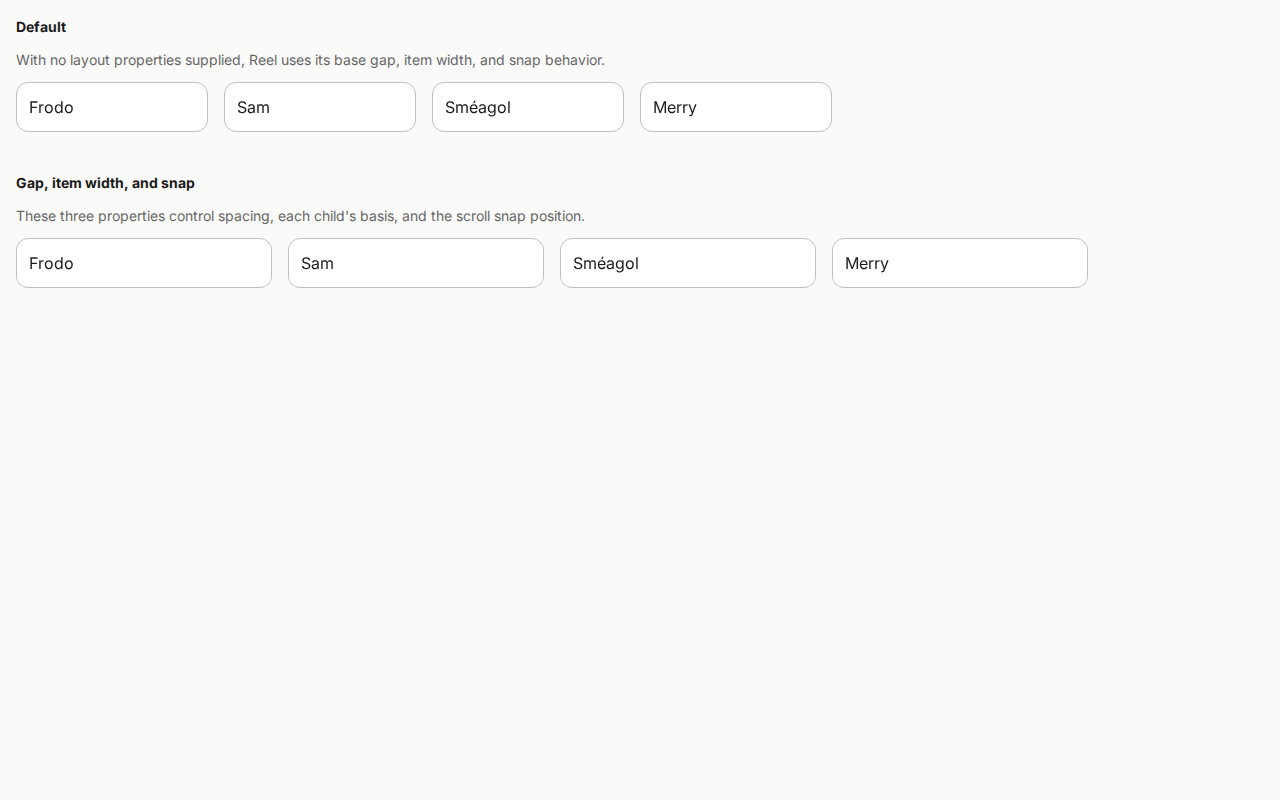
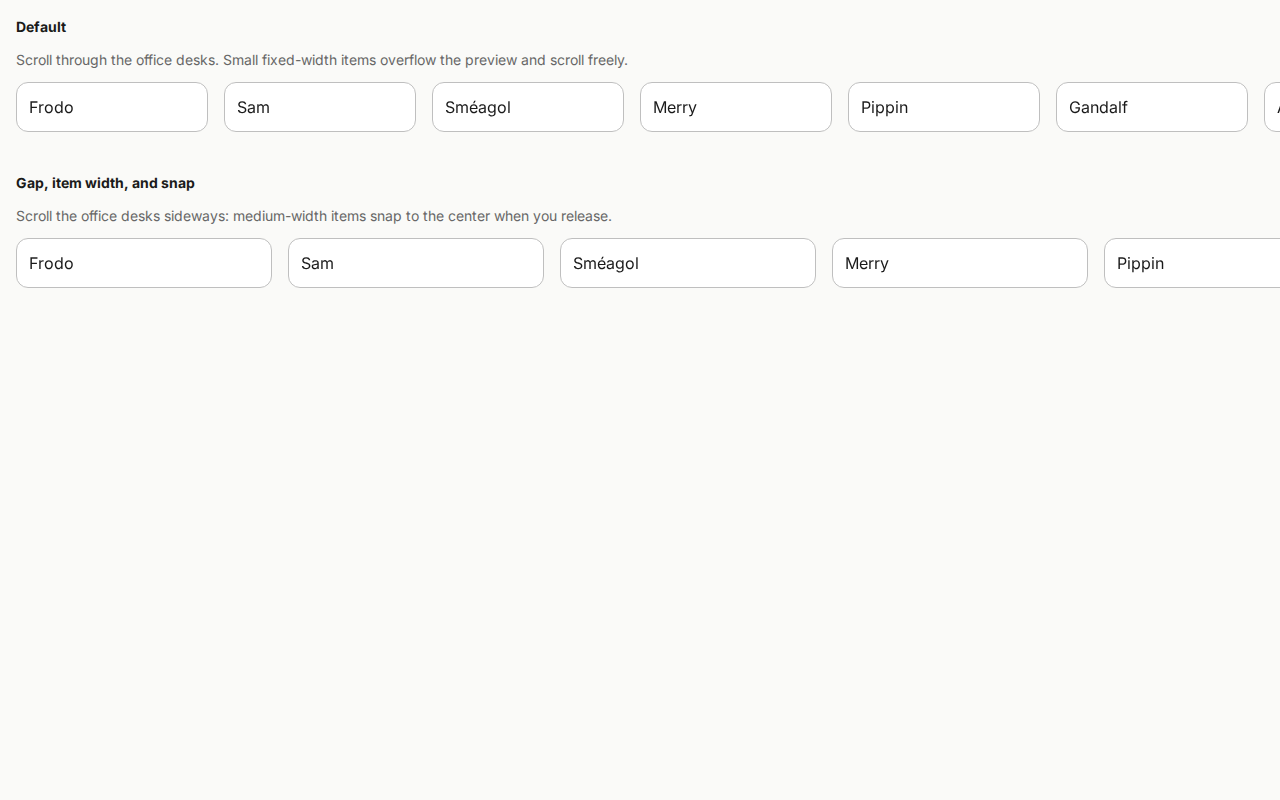
fix(docs): simplify workspaces and polish shared controls (#442)
* fix(docs): simplify workspaces and polish shared controls

* test(docs): accept intended spacing and hint visuals

* fix(docs): preserve catalog grid containment through markdown

diff --git a/apps/docs-next/tests/design-system.spec.js b/apps/docs-next/tests/design-system.spec.js
@@ -8,6 +8,8 @@ const catalog = await readCatalog();
 test('directory cards and full reference come from the published component catalog', async ({ page }, info) => {
   await page.goto(info.config.metadata.markupress + 'components/');
   await expect(page.locator('[data-component-card]')).toHaveCount(catalog.components.filter(component => !component.navigationParent).length);
+  const layoutGrid = page.locator('[data-catalog-group="layout"] [data-component~="ui-grid"]');
+  await expect(layoutGrid.locator('[data-component-card]')).toHaveCount(catalog.components.filter(component => component.group === 'layout' && !component.navigationParent).length);
   for (const tag of ['ui-button', 'ui-stack', 'ui-color-picker']) {
     const card = page.locator(`[data-component-card="${tag}"]`);
     await expect(card.locator('h3')).toHaveText(catalog.components.find(component => component.tag === tag).title);
@@ -59,7 +61,8 @@ test('documentation navigation uses Looma disclosures and keeps editor reference
   }
   await page.locator('[data-component~="markupress-header"]').getByRole('link', { name: 'Editor', exact: true }).click();
   await expect(page).toHaveURL(/\/editor\/$/);
-  const toolbar = page.getByRole('navigation', { name: 'Documentation', exact: true }).getByRole('link', { name: 'Editor Toolbar', exact: true });
+  await expect(page.getByRole('navigation', { name: 'Documentation', exact: true })).toHaveCount(0);
+  const toolbar = page.getByRole('link', { name: 'Editor Toolbar', exact: true });
   await expect(toolbar).toHaveAttribute('href', /\/editor\/ui-editor-toolbar\/$/);
   await toolbar.click(); await expect(page.getByRole('heading', { level: 1, name: 'Editor Toolbar', exact: true })).toBeVisible();
   await page.setViewportSize({ width: 375, height: 900 });
@@ -75,6 +78,57 @@ test('documentation navigation uses Looma disclosures and keeps editor reference
   if (process.env.LOOMA_MATERIAL_SCREENSHOTS) await page.screenshot({ path: join(process.env.LOOMA_MATERIAL_SCREENSHOTS, 'navigation-editor-mobile.png') });
 });
 
+test('customizer gives its controls the sidebar and keeps previews visible without a second navigation tree', async ({ page }, info) => {
+  await page.goto(info.config.metadata.markupress + 'customize/');
+  await expect(page.getByRole('navigation', { name: 'Documentation', exact: true })).toHaveCount(0);
+  const controls = page.getByRole('complementary', { name: 'Theme controls', exact: true });
+  await expect(controls.getByRole('combobox', { name: 'Starting point', exact: true })).toBeVisible();
+  await expect(controls.getByRole('combobox', { name: 'Palette preset', exact: true })).toBeVisible();
+  await expect(controls.getByRole('combobox', { name: 'Material preset', exact: true })).toBeVisible();
+  await expect(page.getByRole('button', { name: 'Type, size & motion', exact: true })).toHaveAttribute('aria-expanded', 'false');
+  await expect(page.getByRole('button', { name: 'Add an example', exact: true })).toHaveAttribute('aria-expanded', 'false');
+  await expect(page.locator('[data-example-count]')).toHaveText('9 examples in preview');
+  await page.getByRole('searchbox', { name: 'Filter previews', exact: true }).fill('checkbox');
+  await expect(page.locator('[data-example-count]')).toHaveText('1 example in preview');
+  await page.getByRole('searchbox', { name: 'Filter previews', exact: true }).clear();
+  const first = page.locator('[data-example-card]').first();
+  expect((await first.boundingBox()).y).toBeLessThan(650);
+  const stack = first.locator('.body [data-component="ui-stack"]');
+  expect(await stack.evaluate(element => getComputedStyle(element).display)).toBe('flex');
+  expect(await stack.evaluate(element => parseFloat(getComputedStyle(element).rowGap))).toBeGreaterThan(0);
+  await expect(page.getByRole('button', { name: 'Automatic appearance', exact: true })).toHaveAttribute('aria-pressed', 'true');
+  await controls.getByRole('combobox', { name: 'Starting point', exact: true }).selectOption('bookish');
+  if (process.env.LOOMA_MATERIAL_SCREENSHOTS) await page.screenshot({ path: join(process.env.LOOMA_MATERIAL_SCREENSHOTS, 'customizer-light.png') });
+  await page.getByRole('button', { name: 'Dark appearance', exact: true }).click();
+  await expect(page.locator('html')).toHaveAttribute('data-theme', 'dark');
+  if (process.env.LOOMA_MATERIAL_SCREENSHOTS) await page.screenshot({ path: join(process.env.LOOMA_MATERIAL_SCREENSHOTS, 'customizer-dark.png') });
+  await page.getByRole('button', { name: 'Automatic appearance', exact: true }).click();
+  await expect(page.locator('html')).toHaveAttribute('data-theme', 'light');
+  await page.setViewportSize({ width: 375, height: 900 });
+  expect(await page.evaluate(() => document.documentElement.scrollWidth <= innerWidth)).toBe(true);
+  if (process.env.LOOMA_MATERIAL_SCREENSHOTS) await page.screenshot({ path: join(process.env.LOOMA_MATERIAL_SCREENSHOTS, 'customizer-mobile.png') });
+  await page.getByRole('button', { name: 'Navigation', exact: true }).click();
+  await expect(page.getByRole('navigation', { name: 'Sections', exact: true })).toBeVisible();
+});
+
+test('reel examples have meaningful overflow and snap at item centers', async ({ page }, info) => {
+  await page.goto(info.config.metadata.markupress + 'components/ui-reel/');
+  const examples = page.locator('[data-example-card]');
+  const free = examples.nth(0).locator('iframe').contentFrame().locator('[data-component="ui-reel"]');
+  const snap = examples.nth(1).locator('iframe').contentFrame().locator('[data-component="ui-reel"]');
+  await free.waitFor(); await snap.waitFor();
+  for (const reel of [free, snap]) {
+    expect(await reel.evaluate(element => element.scrollWidth - element.clientWidth)).toBeGreaterThan(350);
+  }
+  expect(await free.evaluate(element => getComputedStyle(element).scrollSnapType)).toBe('none');
+  expect(await snap.evaluate(element => getComputedStyle(element).scrollSnapType)).toContain('mandatory');
+  await snap.evaluate(element => { element.scrollLeft = element.clientWidth / 2; });
+  await expect.poll(() => snap.evaluate(element => {
+    const box = element.getBoundingClientRect();
+    return Math.min(...[...element.children].map(child => { const item = child.getBoundingClientRect(); return Math.abs(item.left + item.width / 2 - box.left - box.width / 2); }));
+  })).toBeLessThan(2);
+});
+
 test('customizer reuses real cards, updates every isolated preview and exports the formula-based theme', async ({ page }, info) => {
   const errors = [];
   page.on('pageerror', error => errors.push(error.message));
@@ -87,6 +141,7 @@ test('customizer reuses real cards, updates every isolated preview and exports t
     expect(await frame.locator('html').evaluate(() => { try { void parent.document; return false; } catch { return true; } })).toBe(true);
   }
   const extra = catalog.components.find(component => component.tag === 'ui-button').examples[0];
+  await page.getByRole('button', { name: 'Add an example', exact: true }).click();
   await page.getByRole('combobox', { name: 'Choose a component example', exact: true }).fill(`Button · ${extra.title}`);
   await page.getByRole('option', { name: `Button · ${extra.title}`, exact: true }).click();
   await page.getByRole('button', { name: 'Add to preview', exact: true }).click();
@@ -95,6 +150,7 @@ test('customizer reuses real cards, updates every isolated preview and exports t
   await expect.poll(() => added.locator('iframe').contentFrame().locator('html').evaluate(element => getComputedStyle(element).getPropertyValue('--ui-surface').trim())).toMatch(/^light-dark\([^,]+, #11141c\)$/);
   await added.getByRole('button', { name: 'Remove', exact: true }).click();
   await expect(page.locator('[data-example-card]')).toHaveCount(9);
+  await page.getByRole('button', { name: 'Export & save', exact: true }).click();
   const cssReady = page.waitForEvent('download');
   await page.getByRole('button', { name: 'Download CSS', exact: true }).click();
   const css = await readFile(await (await cssReady).path(), 'utf8');
@@ -163,6 +219,7 @@ test('one shared size lever derives matching field and action geometry', async (
   await page.goto(info.config.metadata.markupress + 'customize/');
   const defaultButton = page.locator('[data-component-card="ui-button"] iframe').contentFrame().locator('[data-component="ui-button"]').first();
   await expect.poll(() => defaultButton.evaluate(element => ({ padding: getComputedStyle(element).paddingRight, motion: getComputedStyle(element).transitionDuration }))).toEqual({ padding: '12px', motion: '0.12s, 0.12s, 0.12s, 0.12s, 0.18s' });
+  await page.getByRole('button', { name: 'Type, size & motion', exact: true }).click();
   await page.getByText('Size & spacing', { exact: true }).click();
   await page.getByRole('spinbutton', { name: 'Control size', exact: true }).fill('48px');
   await page.getByRole('spinbutton', { name: 'Control size', exact: true }).press('Enter');
@@ -193,7 +250,7 @@ test('Bookish themes the whole documentation, survives navigation and reload, an
   const buttonCard = page.locator('[data-component-card="ui-button"]');
   const solid = buttonCard.locator('iframe').contentFrame().getByRole('button', { name: 'Solid', exact: true });
   await expect.poll(() => solid.evaluate(element => ({ background: getComputedStyle(element).backgroundColor, height: element.getBoundingClientRect().height }))).toEqual({ background: 'rgb(46, 18, 40)', height: 42 });
-  await page.getByRole('searchbox', { name: 'Find components and examples', exact: true }).fill('button');
+  await page.getByRole('searchbox', { name: 'Filter previews', exact: true }).fill('button');
   await expect(buttonCard).toBeVisible();
   await expect(page.locator('[data-component-card="ui-input"]')).toBeHidden();
   await buttonCard.getByRole('link', { name: 'View component', exact: true }).click();
@@ -255,6 +312,7 @@ test('other tabs keep the customizer controls and active theme synchronized', as
 
 test('shared number, slider and curve controls calculate, convert, constrain and support keyboard editing', async ({ page }, info) => {
   await page.goto(info.config.metadata.markupress + 'customize/');
+  await page.getByRole('button', { name: 'Type, size & motion', exact: true }).click();
   await page.getByText('Size & spacing', { exact: true }).click();
   const size = page.getByRole('spinbutton', { name: 'Control size', exact: true });
   await size.fill('42px / 1.2'); await size.press('Enter');
@@ -314,7 +372,6 @@ test('material refinement shares a movable light, remembers customized presets a
   await page.getByRole('combobox', { name: 'Starting point', exact: true }).selectOption('bookish');
   const size = await page.locator('html').evaluate(element => getComputedStyle(element).getPropertyValue('--ui-control-size'));
   const enter = async () => {
-    await page.getByRole('button', { name: 'Material', exact: true }).click();
     await page.getByRole('button', { name: 'Refine material & light', exact: true }).click();
   };
   await enter();
@@ -351,7 +408,7 @@ test('material refinement shares a movable light, remembers customized presets a
     };
     await captureStyles('light');
     await page.screenshot({ path: join(process.env.LOOMA_MATERIAL_SCREENSHOTS, 'material-light.png'), fullPage: false });
-    await page.getByRole('button', { name: 'Dark theme', exact: true }).click();
+    await page.getByRole('button', { name: 'Dark appearance', exact: true }).click();
     await captureStyles('dark');
     await page.screenshot({ path: join(process.env.LOOMA_MATERIAL_SCREENSHOTS, 'material-dark.png'), fullPage: false });
     await page.setViewportSize({ width: 375, height: 900 });
@@ -370,7 +427,6 @@ test('material refinement shares a movable light, remembers customized presets a
 test('starting theme refinements remember their material and palette without reselecting either preset', async ({ page }, info) => {
   await page.goto(info.config.metadata.markupress + 'customize/');
   await page.getByRole('combobox', { name: 'Starting point', exact: true }).selectOption('bookish');
-  await page.getByRole('button', { name: 'Material', exact: true }).click();
   await page.getByRole('button', { name: 'Refine material & light', exact: true }).click();
   const material = page.locator('[data-refinement-view="material"]');
   await expect(material.locator('[data-refinement-preset] option:checked')).toHaveText('Frosted glass');
@@ -383,7 +439,6 @@ test('starting theme refinements remember their material and palette without res
   await expect(palette.locator('[data-refinement-preset] option:checked')).toHaveText('Plum & paper · customized');
   await page.reload();
   await expect(page.getByRole('combobox', { name: 'Palette preset', exact: true }).locator('option:checked')).toHaveText('Plum & paper · customized');
-  await page.getByRole('button', { name: 'Material', exact: true }).click();
   await page.getByRole('button', { name: 'Refine material & light', exact: true }).click();
   await expect(material.locator('[data-refinement-preset] option:checked')).toHaveText('Frosted glass · customized');
 });

diff --git a/packages/looma/tooling/docs/card.html b/packages/looma/tooling/docs/card.html
@@ -1,3 +1,4 @@
+<link rel="component" href="@threadlabs/looma/components/ui-stack/ui-stack.html">
 <link rel="component" href="@threadlabs/looma/components/ui-form-field/ui-form-field.html">
 <link rel="component" href="@threadlabs/looma/components/ui-input/ui-input.html">
 <link rel="component" href="@threadlabs/looma/components/ui-button/ui-button.html">
@@ -23,7 +24,7 @@
     <div class="preview"><iframe $ref="frame" from:title="$title" from:src="$src" sandbox="allow-scripts" from:loading="$loading" width="100%" height="208"></iframe></div>
     <section $if="$reference" class="example-code"><h4>Code</h4><slot name="code"></slot></section>
     <div $if="$resizable" class="preview-width">      <ui-form-field><label slot="label">Preview width</label><span slot="help">Explore the example at a narrower width.</span><ui-input $ref="width" type="number" min="240" max="1600" value="720" aria-label="Preview width in pixels" size="sm"></ui-input></ui-form-field></div>
-    <div $if="not $reference" class="body">
+    <div $if="not $reference" class="body"><ui-stack gap="xs">
       <div class="meta"><span>{$category}</span><code>{$nativeRoot}</code></div>
       <h3><a from:href="$href">{$title}</a></h3>
       <p class="description">{$description}</p>
@@ -31,7 +32,7 @@
       <p class="example-caption" $if="$exampleTitle">{$exampleTitle}</p>
 
       <footer><ui-button $if="$href" as="a" from:href="$href" variant="link" size="sm">View component</ui-button><ui-button $if="$removable" $ref="remove" variant="ghost" size="sm">Remove</ui-button><slot name="actions"></slot></footer>
-    </div>
+    </ui-stack></div>
   </article>
   <style>
     /* The existing documentation catalog card, shared by the directory, reference and customizer. */
@@ -65,13 +66,13 @@
     footer { display: flex !important; align-items: center !important; justify-content: space-between !important; gap: var(--ui-space-2) !important; }
     .preview-width { padding: var(--ui-space-4) !important; }
     .body { padding: var(--ui-space-5) !important; }
-    .meta { display: flex !important; align-items: center !important; justify-content: space-between !important; gap: var(--ui-space-2) !important; margin-block-end: var(--ui-space-2) !important; color: var(--ui-text-secondary); font-size: var(--ui-font-size-xs); font-weight: var(--ui-font-bold); letter-spacing: .09em; text-transform: uppercase; }
+    .meta { display: flex !important; align-items: center !important; justify-content: space-between !important; gap: var(--ui-space-2) !important; margin: 0 !important; color: var(--ui-text-secondary); font-size: var(--ui-font-size-xs); font-weight: var(--ui-font-bold); letter-spacing: .09em; text-transform: uppercase; }
     .meta code { padding: 0 !important; background: transparent; color: inherit; text-transform: none; }
     h3 { margin: 0 !important; padding: 0 !important; font-size: var(--ui-font-size-lg); letter-spacing: -.035em; }
     h3 a { color: var(--ui-text); text-decoration: none; }
-    .description { margin: var(--ui-space-2) 0 !important; color: var(--ui-text-secondary); font-size: var(--ui-font-size-sm); line-height: var(--ui-line-height); }
-    .owner { margin: var(--ui-space-2) 0 !important; color: var(--ui-text-secondary); font-size: var(--ui-font-size-xs); overflow-wrap: anywhere; }
-    .example-caption { margin: var(--ui-space-2) 0 !important; color: var(--ui-text-secondary); font-size: var(--ui-font-size-xs); }
+    .description { margin: 0 !important; color: var(--ui-text-secondary); font-size: var(--ui-font-size-sm); line-height: var(--ui-line-height); }
+    .owner { margin: 0 !important; color: var(--ui-text-secondary); font-size: var(--ui-font-size-xs); overflow-wrap: anywhere; }
+    .example-caption { margin: 0 !important; color: var(--ui-text-secondary); font-size: var(--ui-font-size-xs); }
     @media (prefers-reduced-motion: reduce) { :host { transition: none; } :host:hover { transform: none; } }
   </style>
 </template>

diff --git a/packages/looma/tests/browser.test.ts b/packages/looma/tests/browser.test.ts
@@ -928,6 +928,30 @@ describe("Touch input typography", () => {
   });
 });
 
+describe("Tooltip arrow geometry", () => {
+  it("keeps the arrow symmetric around its tip on every side in HTML and Vue", async () => {
+    for (const adapter of ["html", "vue"]) {
+      const path = await bundle(`${adapter}-tooltip-arrow`, adapter === "html" ? 'import "@threadlabs/looma";' : `
+        import { createApp, h } from "vue";
+        import { Tooltip } from "@threadlabs/looma/vue";
+        createApp({ render: () => h(Tooltip, { id: "hint", for: "anchor", open: true }, () => "Office hours") }).mount("#app");
+      `);
+      const page = await open(path, '<button id="anchor" style="position: fixed; left: 300px; top: 250px">Office</button>' + (adapter === "html" ? '<ui-tooltip id="hint" for="anchor" open>Office hours</ui-tooltip>' : '<div id="app"></div>'), [join(root, "tokens.css"), ...(adapter === "vue" ? [join(root, "vue/components.css")] : [])], { reducedMotion: "reduce" });
+      for (const side of ["top", "bottom", "left", "right"]) {
+        // Inspect the painted arrow on each resolved side, independently of overlay collision policy.
+        const symmetry = await page.locator("#hint").evaluate((element, side) => {
+          element.setAttribute("data-ui-actual-placement", side);
+          const arrow = getComputedStyle(element.querySelector(".surface")!, "::after");
+          const matrix = new DOMMatrix(arrow.transform);
+          return { acrossTip: Math.abs(matrix.a + matrix.c), acrossBase: Math.abs(matrix.b - matrix.d) };
+        }, side);
+        assert.ok(symmetry.acrossTip < 0.001 && symmetry.acrossBase < 0.001, `${adapter} ${side}: arrow sides meet at the same height`);
+      }
+      await page.close();
+    }
+  });
+});
+
 describe("Tooltip shortcut", () => {
   it("shows a shortcut after the label behind a divider, and nothing when there is none", async () => {
     const path = await bundle("html-tooltip-shortcut", `import "@threadlabs/looma";`);
@@ -1445,6 +1469,19 @@ describe("Editor callouts", () => {
 });
 
 describe("Tabs activation", () => {
+  it("lets vertical wheel scrolling reach the page over fitting and overflowing tabs", async () => {
+    const path = await bundle("html-tabs-wheel", 'import "@threadlabs/looma";');
+    const page = await open(path, '<div style="height: 3000px"><ui-tabs style="max-inline-size: 12rem"><section aria-label="HTML Next">HTML</section><section aria-label="Vue">Vue</section><section aria-label="Long additional example">More</section></ui-tabs></div>', [join(root, "tokens.css")]);
+    for (const width of ["12rem", "60rem"]) {
+      await page.evaluate(() => window.scrollTo(0, 0));
+      await page.locator('[role="tablist"]').evaluate((list, width) => { (list.parentElement as HTMLElement).style.maxInlineSize = width; }, width);
+      await page.getByRole("tab", { name: "HTML Next", exact: true }).hover();
+      await page.mouse.wheel(0, 150);
+      await page.waitForFunction(() => window.scrollY > 0);
+    }
+    await page.close();
+  });
+
   it("moves focus without selecting in manual mode and selects on Enter or Space", async () => {
     const path = await bundle("html-manual-tabs", `
       import "@threadlabs/looma";

diff --git a/packages/looma/tooling/docs/customizer.js b/packages/looma/tooling/docs/customizer.js
@@ -71,10 +71,13 @@ export function connect(host) {
   };
   const filterExamples = () => {
     const words = root.querySelector('[data-example-query]').value.toLocaleLowerCase().trim().split(/\s+/).filter(Boolean);
-    const options = [...root.querySelectorAll('[data-add-example] option')];
-    for (const card of root.querySelectorAll('[data-example-card]')) card.closest('section').hidden = !words.every(word => card.textContent.toLocaleLowerCase().includes(word) || card.dataset.componentCard.includes(word));
-    const matches = options.filter(option => words.every(word => option.dataset.search.includes(word))).length;
-    root.querySelector('[data-example-count]').textContent = matches ? `${matches} matching examples` : 'No examples match. Try another name or purpose.';
+    let visible = 0;
+    for (const card of root.querySelectorAll('[data-example-card]')) {
+      const matches = words.every(word => card.textContent.toLocaleLowerCase().includes(word) || card.dataset.componentCard.includes(word));
+      card.closest('section').hidden = !matches;
+      if (matches) visible++;
+    }
+    root.querySelector('[data-example-count]').textContent = visible ? `${visible} example${visible === 1 ? '' : 's'} in preview` : 'No previews match. Clear the filter or add another example.';
     componentRegistry.update(root.querySelector('[data-action="add"]'), { disabled: !selectedExample || host.state.cards.some(item => item.id === selectedExample) });
   };
   const refinedRecipe = values => {

diff --git a/packages/looma/src/components/ui-tabs/ui-tabs.js b/packages/looma/src/components/ui-tabs/ui-tabs.js
@@ -122,17 +122,9 @@ export function connect(host) {
     if (list.contains(event.relatedTarget)) return;
     for (const button of tabButtons()) button.tabIndex = button.value === host.state.internalValue ? 0 : -1;
   };
-  // A vertical mouse wheel over an overflowing strip scrolls it sideways instead of the page.
-  // Trackpad gestures already carry a horizontal delta and are left to the browser.
-  const onWheel = (event) => {
-    if (list.scrollWidth <= list.clientWidth || event.deltaX !== 0 || event.ctrlKey) return;
-    event.preventDefault();
-    list.scrollLeft += event.deltaY;
-  };
   list.addEventListener("click", onClick);
   list.addEventListener("keydown", onKeydown);
   list.addEventListener("focusout", onFocusout);
-  list.addEventListener("wheel", onWheel, { passive: false });
   const observer = new MutationObserver(readPanels);
   observer.observe(container, { childList: true });
   const tabObserver = new MutationObserver(syncButtons);
@@ -153,6 +145,5 @@ export function connect(host) {
     list.removeEventListener("click", onClick);
     list.removeEventListener("keydown", onKeydown);
     list.removeEventListener("focusout", onFocusout);
-    list.removeEventListener("wheel", onWheel);
   };
 }

diff --git a/packages/looma/src/components/ui-reel/examples/02-gap-item-width-and-snap.html b/packages/looma/src/components/ui-reel/examples/02-gap-item-width-and-snap.html
@@ -1,10 +1,14 @@
 <!--
 title: Gap, item width, and snap
-description: These three properties control spacing, each child's basis, and the scroll snap position.
+description: Scroll the office desks sideways: medium-width items snap to the center when you release.
 -->
-<ui-reel gap="m" item-width="md" snap="center" aria-label="Items">
-  <ui-card padding="sm">Frodo</ui-card>
-  <ui-card padding="sm">Sam</ui-card>
-  <ui-card padding="sm">Sméagol</ui-card>
-  <ui-card padding="sm">Merry</ui-card>
+<ui-reel gap="m" item-width="md" snap="center" aria-label="Fellowship office desks">
+  <div><ui-card padding="sm">Frodo</ui-card></div>
+  <div><ui-card padding="sm">Sam</ui-card></div>
+  <div><ui-card padding="sm">Sméagol</ui-card></div>
+  <div><ui-card padding="sm">Merry</ui-card></div>
+  <div><ui-card padding="sm">Pippin</ui-card></div>
+  <div><ui-card padding="sm">Gandalf</ui-card></div>
+  <div><ui-card padding="sm">Aragorn</ui-card></div>
+  <div><ui-card padding="sm">Legolas</ui-card></div>
 </ui-reel>

diff --git a/packages/looma/src/components/ui-reel/examples/01-default.html b/packages/looma/src/components/ui-reel/examples/01-default.html
@@ -1,10 +1,14 @@
 <!--
 title: Default
-description: With no layout properties supplied, Reel uses its base gap, item width, and snap behavior.
+description: Scroll through the office desks. Small fixed-width items overflow the preview and scroll freely.
 -->
-<ui-reel item-width="sm" aria-label="Items">
-  <ui-card padding="sm">Frodo</ui-card>
-  <ui-card padding="sm">Sam</ui-card>
-  <ui-card padding="sm">Sméagol</ui-card>
-  <ui-card padding="sm">Merry</ui-card>
+<ui-reel item-width="sm" aria-label="Fellowship office desks">
+  <div><ui-card padding="sm">Frodo</ui-card></div>
+  <div><ui-card padding="sm">Sam</ui-card></div>
+  <div><ui-card padding="sm">Sméagol</ui-card></div>
+  <div><ui-card padding="sm">Merry</ui-card></div>
+  <div><ui-card padding="sm">Pippin</ui-card></div>
+  <div><ui-card padding="sm">Gandalf</ui-card></div>
+  <div><ui-card padding="sm">Aragorn</ui-card></div>
+  <div><ui-card padding="sm">Legolas</ui-card></div>
 </ui-reel>

diff --git a/apps/docs-next/tests/local-design-system.spec.js b/apps/docs-next/tests/local-design-system.spec.js
@@ -17,6 +17,7 @@ test('local saving preserves newer edits and directly opened examples remain iso
       await route.fulfill({ response, body: (await response.text()).replace('data-mode="public"', 'data-mode="local"') });
     });
     await page.goto(server.url + 'customize/');
+    await page.getByRole('button', { name: 'Export & save', exact: true }).click();
     await expect(page.locator('[data-action="save"]')).toBeVisible();
     await page.locator('[data-preset]').selectOption('night');
     const submitted = page.waitForRequest(request => request.method() === 'POST' && request.url().endsWith('/_looma/theme'));

diff --git a/packages/looma/src/components/ui-tabs/ui-tabs.html b/packages/looma/src/components/ui-tabs/ui-tabs.html
@@ -98,10 +98,9 @@
       max-inline-size: 100%;
       /* Tabs that do not fit scroll sideways rather than wrapping or squeezing. */
       overflow-x: auto;
-      /* overflow-x: auto would make the block axis scrollable too; a sideways swipe must not scroll the
-         strip or the page vertically. */
+      /* Contain sideways overscroll without trapping vertical page scrolling. */
       overflow-y: hidden;
-      overscroll-behavior: contain;
+      overscroll-behavior-inline: contain;
       scrollbar-width: thin;
       border-block-end: var(--ui-border-width) solid var(--ui-border-divider);
     }

diff --git a/packages/looma/src/tokens/tokens.css b/packages/looma/src/tokens/tokens.css
@@ -251,7 +251,7 @@
     --ui-control-surface: var(--ui-surface);
     --ui-control-surface-disabled: var(--ui-surface-muted);
     --ui-control-border-hover: color-mix(in oklab, var(--ui-text) 50%, var(--ui-surface));
-    --ui-control-placeholder: var(--ui-text-secondary);
+    --ui-control-placeholder: color-mix(in oklab, var(--ui-text) 58%, var(--ui-control-surface));
     --ui-control-focus: var(--ui-focus-ring);
     /* Derived from the ring, not a near-white tint, so the halo shows on any surface. */
     --ui-control-focus-halo: color-mix(in srgb, var(--ui-focus-ring) 24%, transparent);

diff --git a/packages/looma/src/components/ui-reel/ui-reel.html b/packages/looma/src/components/ui-reel/ui-reel.html
@@ -8,7 +8,8 @@
       scrolls sideways once they overflow.</prop>
     <prop name="snap" type="keyword" values="start, center"
     >Snaps scrolling to items: start comes to rest with an item's start edge at the reel's start, and center with an item centred in the reel. Unset, the reel
-      scrolls freely.</prop>
+      scrolls freely. Wrap a component item in a plain element when snapping: the wrapper receives snap alignment while the component keeps ownership of its
+      root styles.</prop>
   </defs>
   <div role="region" tabindex="0"><slot></slot></div>
   <style>

diff --git a/packages/looma/src/components/ui-tooltip/ui-tooltip.html b/packages/looma/src/components/ui-tooltip/ui-tooltip.html
@@ -238,7 +238,8 @@
       border-inline-end-width: var(--ui-border-width);
       border-block-end-width: var(--ui-border-width);
       border-end-end-radius: var(--ui-border-width);
-      transform: rotate(45deg) scaleX(1.25) scaleY(0.85);
+      /* Stretch in screen axes after rotation so both arrow shoulders stay level. */
+      transform: scale(1.25, 0.85) rotate(45deg);
     }
 
     :host[data-ui-actual-placement="bottom"] .surface::after {
